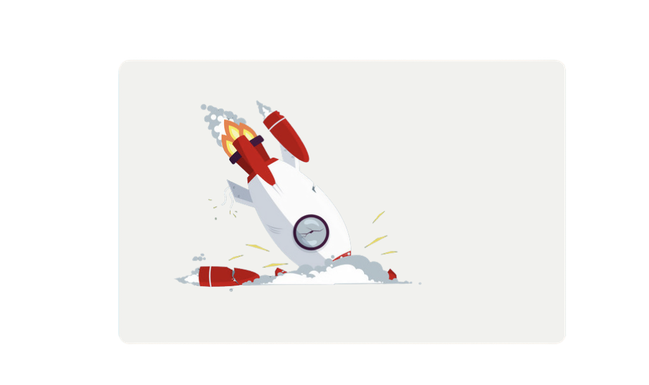
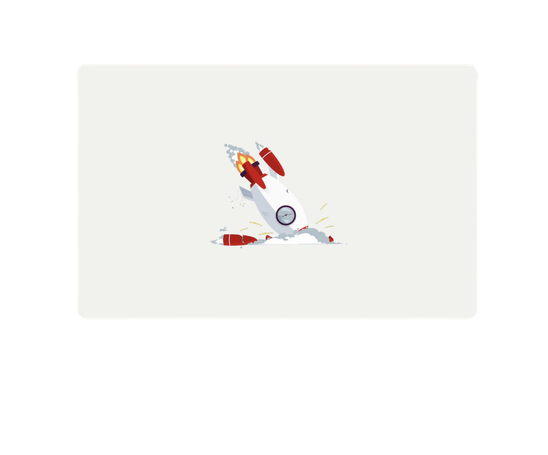
Edit UI #1

Changed region(s): [[0.2482, 0.2494, 0.6515, 0.7481], [0.3723, 0.2494, 0.4033, 0.2805]]

diff --git a/FirstSKScene.swift b/FirstSKScene.swift
@@ -88,9 +88,9 @@ class FirstSKScene: SKScene,SKPhysicsContactDelegate {
            
 //           @@@@@@@@@@@@@@@@@@@@@@@@@@@@@@@@@@@@@@@@@@@@
            
-           emptyArray = SKSpriteNode(imageNamed: "alertBack")
-           emptyArray.size = .init(width: 600, height: 450)
-           emptyArray .position = CGPoint(x: self.size.width/1.8, y: self.size.height/2.2)
+           emptyArray = SKSpriteNode(imageNamed: "emptyAlert")
+           emptyArray.size = .init(width: 620, height: 430)
+           emptyArray .position = CGPoint(x: self.size.width/1.90, y: self.size.height/2.2)
            emptyArray .zPosition = 0
            
            emptyLabel = SKLabelNode(fontNamed: "System")
@@ -99,12 +99,12 @@ class FirstSKScene: SKScene,SKPhysicsContactDelegate {
            emptyLabel.fontSize = 40.0
            emptyLabel.horizontalAlignmentMode = .right
            emptyLabel.verticalAlignmentMode = .center
-           emptyLabel.position = CGPoint(x: 691, y: 743)
+           emptyLabel.position = CGPoint(x: 680, y: 723)
            
-           OkButton = SKSpriteNode(imageNamed: "HomebuttonSu")
+           OkButton = SKSpriteNode(imageNamed: "OKButton")
            OkButton.name = "OkButton"
-           OkButton.size = .init(width: 280, height: 180)
-           OkButton.position = CGPoint(x: frame.width * 0.35, y: frame.height * 0.370)
+           OkButton.size = .init(width: 140, height: 60)
+           OkButton.position = CGPoint(x: frame.width * 0.53, y: frame.height * 0.34)
            
            
            
